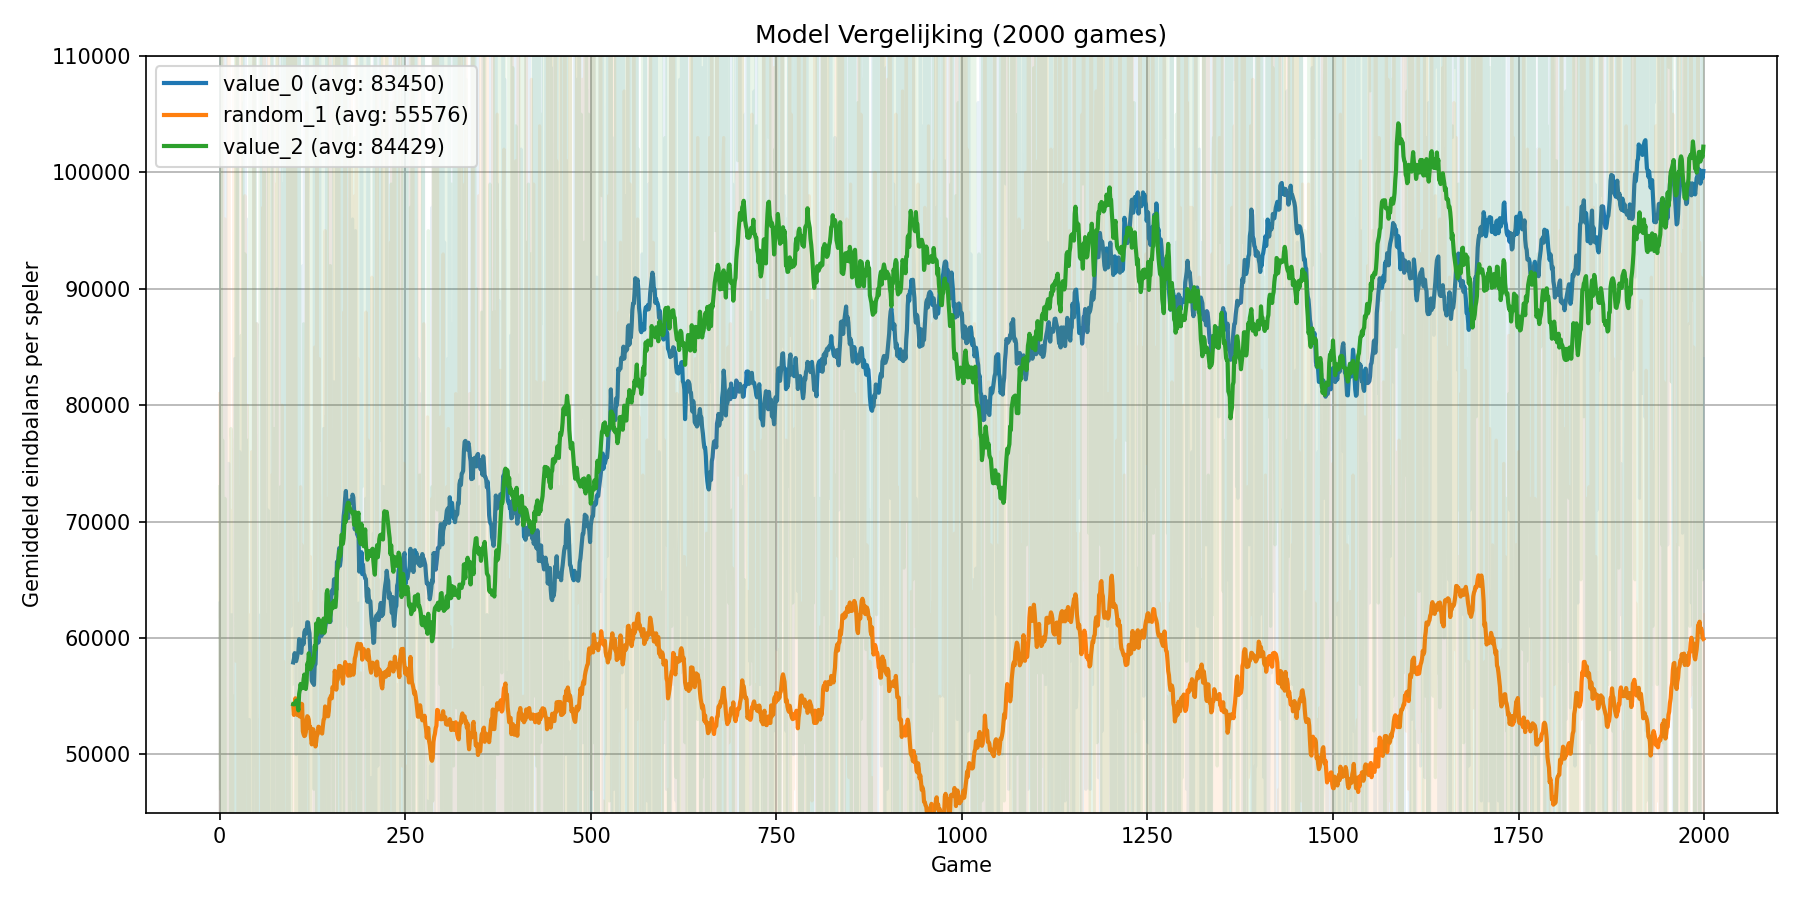
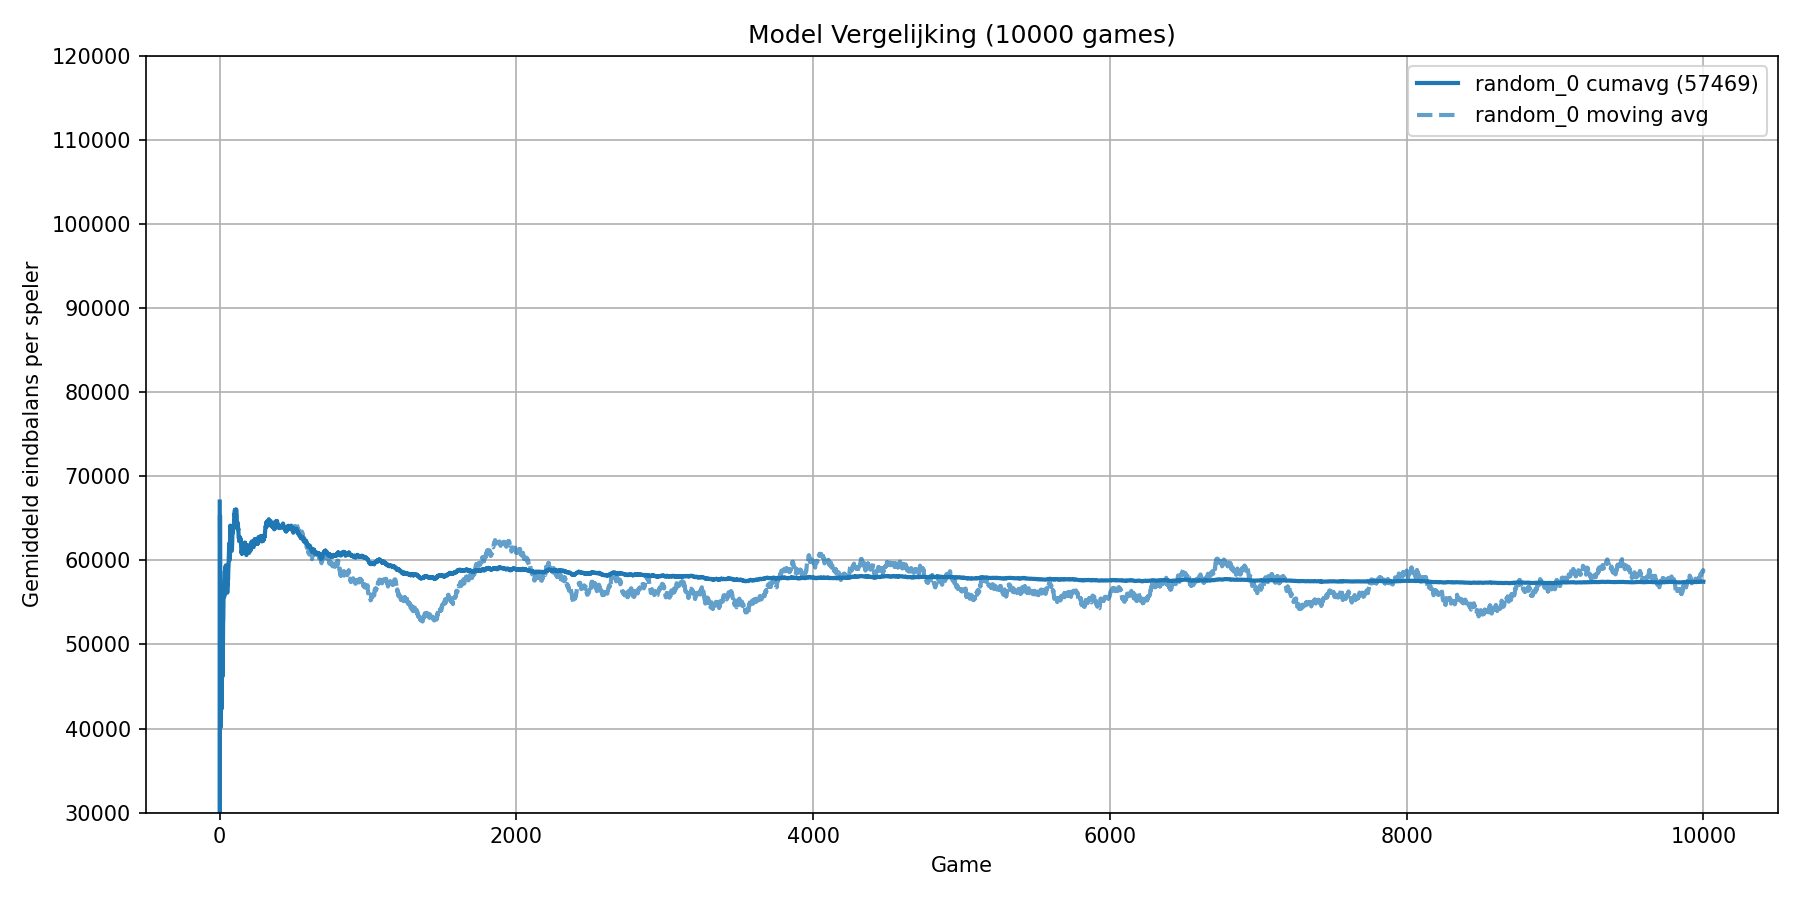
update plotting

diff --git a/src/scrum_game/utils/plotting.py b/src/scrum_game/utils/plotting.py
@@ -7,14 +7,15 @@ def plot_results(results: dict[str, list[float]], runs: int):
     plt.figure(figsize=(12, 6))
     for i, (name, rewards) in enumerate(results.items()):
         color = colors[i % len(colors)]
+        cumavg = np.cumsum(rewards) / np.arange(1, len(rewards) + 1)
+        plt.plot(cumavg, linewidth=2, label=f'{name} cumavg ({np.mean(rewards):.0f})', color=color)
         window = max(1, len(rewards) // 20)
         moving_avg = np.convolve(rewards, np.ones(window)/window, mode='valid')
-        plt.plot(rewards, alpha=0.1, color=color)
-        plt.plot(range(window - 1, len(rewards)), moving_avg, linewidth=2, label=f'{name} (avg: {np.mean(rewards):.0f})', color=color)
+        plt.plot(range(window - 1, len(rewards)), moving_avg, linewidth=2, linestyle='--', label=f'{name} moving avg', color=color, alpha=0.7)
     
     plt.xlabel('Game')
     plt.ylabel('Gemiddeld eindbalans per speler')
-    plt.ylim(45_000, 110_000)
+    plt.ylim(30_000, 120_000)
     plt.title(f'Model Vergelijking ({runs} games)')
     plt.legend()
     plt.grid(True)
